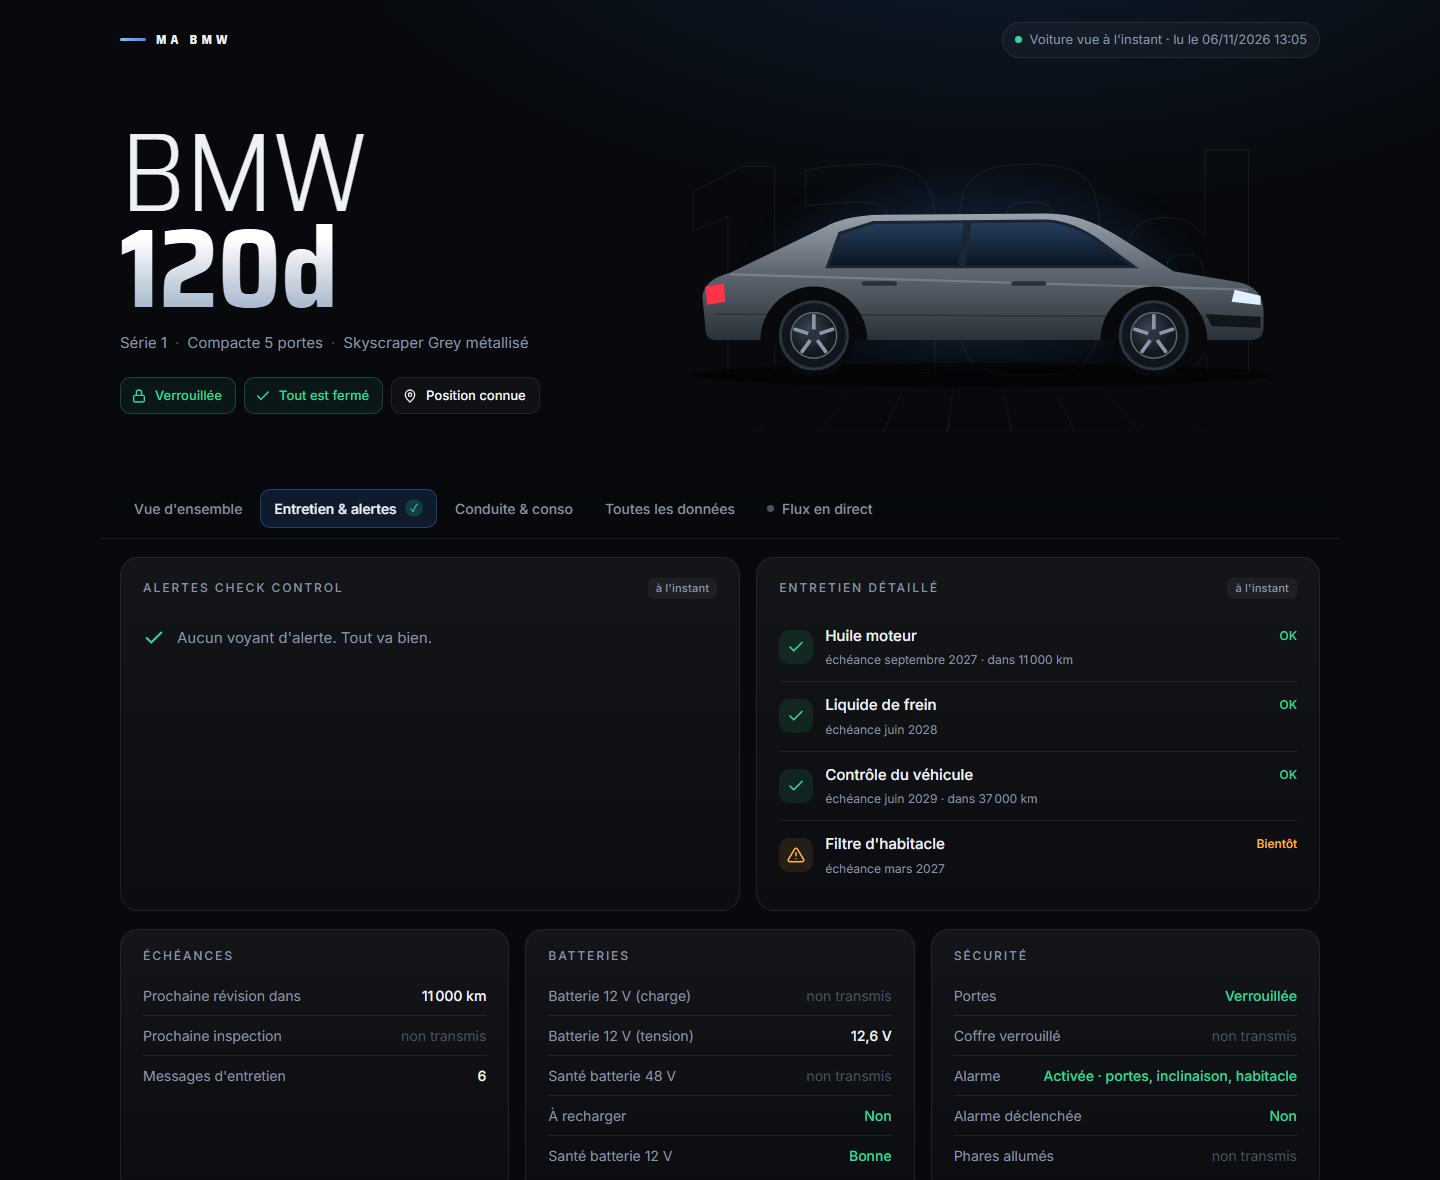
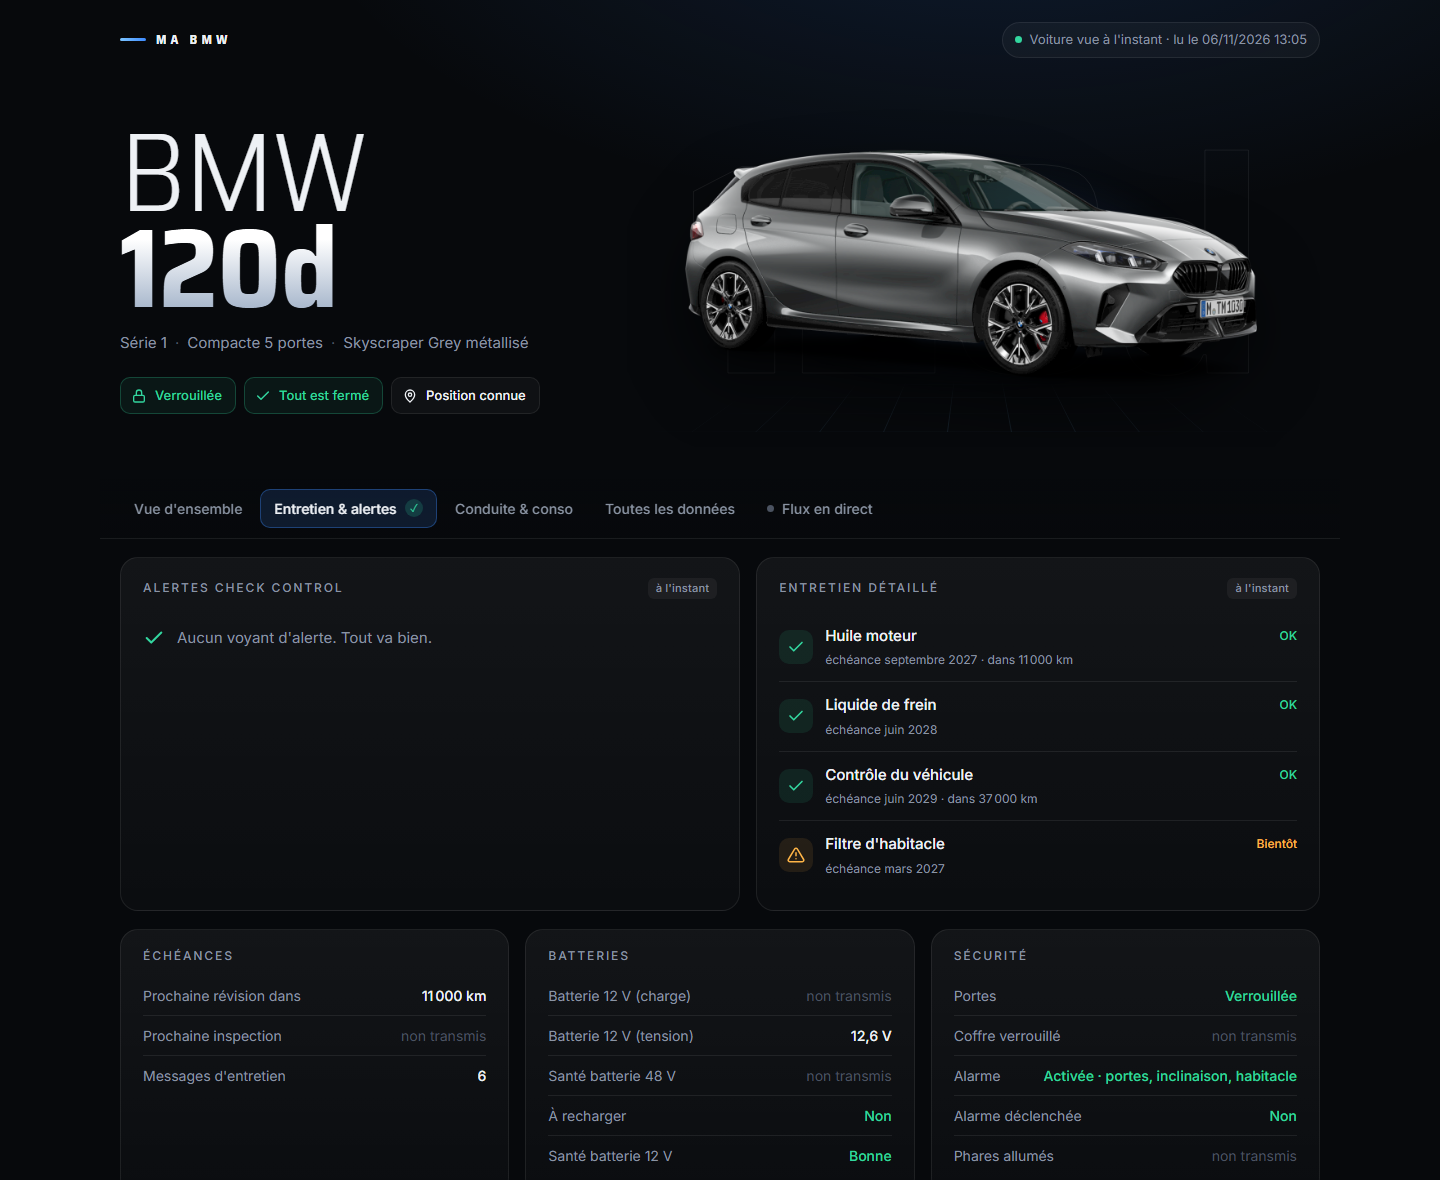
Captures avec la photo officielle du véhicule
- Les captures du README montrent la photo renvoyée par l'API BMW CarData
- Sans photo, la page met en avant le nom du modèle au lieu d'une silhouette dessinée

Changed region(s): [[0.4688, 0.122, 0.875, 0.3356]]

diff --git a/dashboard_template.html b/dashboard_template.html
@@ -81,6 +81,9 @@ body {
 .stage .car { position: absolute; inset: 0; overflow: hidden; }
 .stage .car img { position: absolute; width: 118%; left: -11%; top: -30.6%; filter: drop-shadow(0 30px 30px rgba(0,0,0,.55)); animation: arrive 1.1s cubic-bezier(.2,.8,.2,1) both; }
 .stage .car svg { position: absolute; inset: 10% 6%; width: 88%; height: 80%; }
+.stage.nocar .ghost { -webkit-text-stroke: 1.5px rgba(124,196,255,.32); color: rgba(61,139,255,.05); }
+.nocar-hint { position: absolute; left: 0; right: 0; bottom: 6%; text-align: center; color: var(--faint); font-size: 12px; }
+.nocar-hint code { color: var(--muted); font-family: ui-monospace, Consolas, monospace; }
 @keyframes arrive { from { opacity: 0; transform: translateX(6%); filter: blur(6px); } to { opacity: 1; transform: none; } }
 
 /* ---------- grilles ---------- */
@@ -578,44 +581,23 @@ const ICON = {
 
   if (DATA.image) {
     const img = new Image(); img.src = DATA.image; img.alt = "";
-    img.onerror = () => { $("carStage").innerHTML = carSide(); };
+    img.onerror = noCar;
     $("carStage").appendChild(img);
-  } else $("carStage").innerHTML = carSide();
+  } else noCar();
 })();
+
+/* sans photo du véhicule : on met en valeur le nom du modèle en fond, et on indique comment obtenir la photo */
+function noCar() {
+  const stage = document.querySelector(".stage");
+  stage.classList.add("nocar");
+  $("carStage").innerHTML = `<div class="nocar-hint">Photo du véhicule : <code>python bmw_cardata.py profile</code></div>`;
+}
 
 function colorFr(s) {
   const t = s.toLowerCase().replace(/\bgrau\b/, "grey").replace(/\bschwarz\b/, "black").replace(/\bweiss\b|\bweiß\b/, "white").replace(/\bblau\b/, "blue");
   return t.split(" ").map(w => w === "metallic" ? "métallisé" : w.charAt(0).toUpperCase() + w.slice(1)).join(" ");
 }
 function esc(s) { return String(s).replace(/[&<>"']/g, c => ({ "&": "&amp;", "<": "&lt;", ">": "&gt;", '"': "&quot;", "'": "&#39;" }[c])); }
-/* silhouette de compacte, utilisée quand la photo officielle n'a pas été récupérée (commande « profile ») */
-function carSide() {
-  const wheel = cx => `
-    <circle cx="${cx}" cy="126" r="27" fill="#07090c"/>
-    <circle cx="${cx}" cy="126" r="22" fill="#11161d" stroke="#2a3340" stroke-width="2"/>
-    <circle cx="${cx}" cy="126" r="15" fill="url(#rim)" stroke="#5c6878" stroke-width="1"/>
-    ${[0, 72, 144, 216, 288].map(a => `<line x1="${cx}" y1="126" x2="${cx}" y2="113" stroke="#8b97a8" stroke-width="2.4" stroke-linecap="round" transform="rotate(${a} ${cx} 126)"/>`).join("")}
-    <circle cx="${cx}" cy="126" r="4" fill="#2a3340"/>`;
-  return `<svg viewBox="0 0 400 165" role="img" aria-label="Silhouette du véhicule">
-    <defs>
-      <linearGradient id="paint" x1="0" y1="0" x2="0" y2="1"><stop offset="0" stop-color="#9aa3ad"/><stop offset=".45" stop-color="#5f6872"/><stop offset="1" stop-color="#2b3138"/></linearGradient>
-      <linearGradient id="glass2" x1="0" y1="0" x2="0" y2="1"><stop offset="0" stop-color="#26405f"/><stop offset="1" stop-color="#0b1420"/></linearGradient>
-      <radialGradient id="rim" cx=".4" cy=".35"><stop offset="0" stop-color="#3a4452"/><stop offset="1" stop-color="#151a21"/></radialGradient>
-    </defs>
-    <ellipse cx="205" cy="152" rx="190" ry="8" fill="#000" opacity=".55"/>
-    <path d="M24 122 L22 102 C22 93 29 88 40 85 L102 55 C111 50 121 48 133 47 L248 46 C265 46 280 52 293 60 L331 84 L373 91 C384 93 390 100 390 110 L390 121 C390 126 387 129 382 129 L30 129 C26 129 24 126 24 122Z" fill="url(#paint)"/>
-    <path d="M40 86 L380 96" stroke="#fff" stroke-opacity=".18" stroke-width="1.5"/>
-    <path d="M30 112 L388 114" stroke="#000" stroke-opacity=".25" stroke-width="1"/>
-    <path d="M112 59 L134 52 L246 51 C258 51 268 55 279 62 L305 81 L104 81Z" fill="url(#glass2)" stroke="#1b2533" stroke-width="2"/>
-    <path d="M196 51 L192 81" stroke="#1b2533" stroke-width="5"/>
-    <path d="M128 92 L148 92 M226 92 L246 92" stroke="#2b3138" stroke-width="3" stroke-linecap="round"/>
-    <path d="M24 94 L36 92 L37 104 L25 106Z" fill="#ff3347"/>
-    <path d="M371 96 L388 100 L388 106 L369 104Z" fill="#dff0ff"/>
-    <path d="M352 112 L388 114 L388 121 L356 120Z" fill="#11161d"/>
-    <path d="M60 129 A35 35 0 0 1 130 129 M283 129 A35 35 0 0 1 353 129" fill="#07090c"/>
-    ${wheel(95)}${wheel(318)}
-  </svg>`;
-}
 
 /* ---------------- carburant ---------------- */
 (() => {

diff --git a/README.md b/README.md
@@ -92,7 +92,7 @@ Un seul script Python, sans dépendance externe pour l'usage courant. Seul le st
 <a id="captures"></a>
 ## 📸 Captures d'écran
 
-> Captures réalisées avec des **données fictives**.
+> Captures réalisées avec des **données fictives**. La photo est celle que l'API BMW CarData renvoie pour le véhicule (commande `profile`).
 
 <div align="center">
 
@@ -244,7 +244,7 @@ Ces paramètres s'affichent au démarrage, pour les comparer avec ceux du portai
 
 | Onglet | Contenu |
 |---|---|
-| **Vue d'ensemble** | Photo ou silhouette de la voiture, jauge de carburant, compteur, prochain entretien, vue de dessus (portes, vitres, coffre, capot, toit ouvrant, pneus), carte, fiche technique |
+| **Vue d'ensemble** | Photo officielle de la voiture (commande `profile`), jauge de carburant, compteur, prochain entretien, vue de dessus (portes, vitres, coffre, capot, toit ouvrant, pneus), carte, fiche technique |
 | **Entretien & alertes** | Voyants Check Control, entretien détaillé (huile, liquide de frein…), échéances, batteries, alarme, mémoire des défauts |
 | **Conduite & conso** | Consommation moyenne réelle (compteur officiel OBFCM), habitudes de conduite, cap et altitude, moteur, navigation, programmateurs de clim |
 | **Toutes les données** | La liste complète des valeurs connues, avec une recherche |
